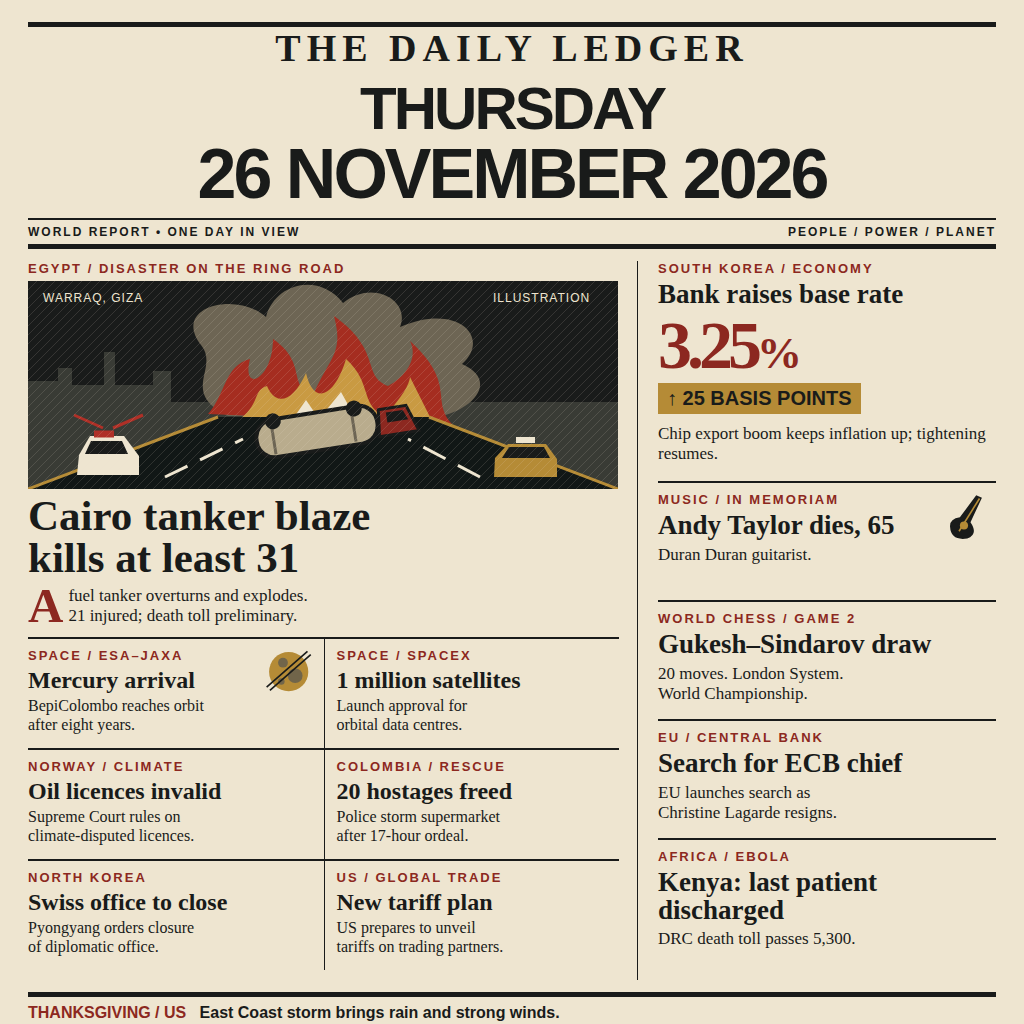
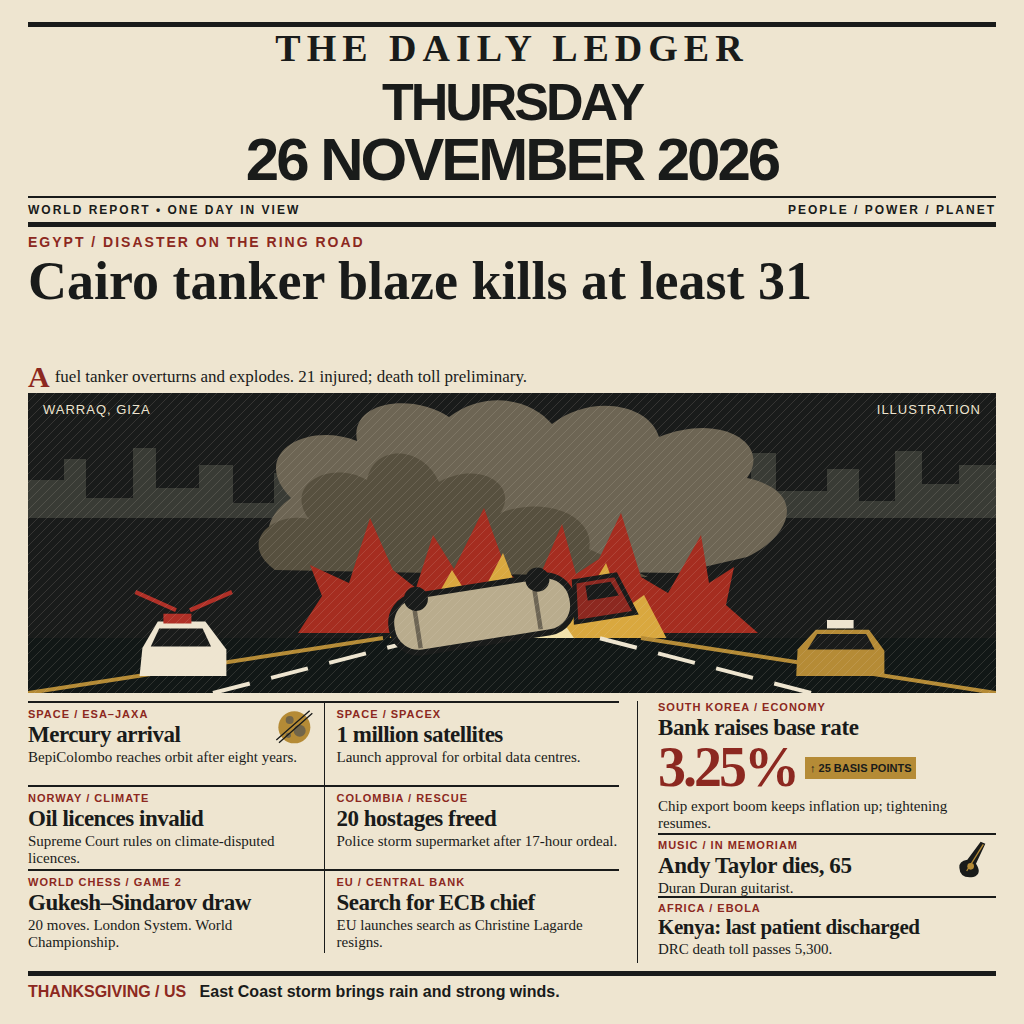
Optimize for blind pairwise judging: full-width hero illustration (968x300, layered smoke/flames/bright core), 54px headline, larger tile type, fix right-column overflow, correct README rendering notes

diff --git a/news.html b/news.html
@@ -1,39 +1,78 @@
 <!doctype html>
 <html lang="en"><meta charset="utf-8"><title>The Daily Ledger — 26 November 2026</title>
 <style>
-*{box-sizing:border-box}body{margin:0;background:#eee5d0;color:#191b1a;font-family:Georgia,'Times New Roman',serif} .page{width:1024px;height:1024px;padding:22px 28px 16px;overflow:hidden}header{text-align:center;border-top:5px solid #191b1a}.mast{font-size:38px;font-weight:900;letter-spacing:6px;line-height:1.15} .date{font-family:Impact,'Arial Narrow',sans-serif;font-weight:900;font-size:60px;line-height:1.02;letter-spacing:-3px;margin:7px 0 8px}.date span{display:block;font-size:70px}.edition{border-top:2px solid;border-bottom:5px solid;display:flex;justify-content:space-between;padding:5px 0;font: bold 12px Arial;letter-spacing:2px}.columns{display:grid;grid-template-columns:610px 338px;gap:20px;margin-top:12px;height:719px}.left{border-right:1px solid;padding-right:18px}.kicker{font:bold 13px Arial;letter-spacing:2px;color:#8c2820;margin-bottom:5px}h1{font-size:43px;line-height:.98;margin:6px 0}h2{font-size:26px;line-height:1.02;margin:4px 0}p{font:17px/1.18 Georgia;margin:5px 0}.leadpic{width:590px;height:208px;display:block;background:#191b1a}.leadtext:first-letter{float:left;font:bold 49px/.82 Georgia;padding-right:5px;color:#8c2820}.smallgrid{display:grid;grid-template-columns:1fr 1fr;margin-top:11px}.tile{height:111px;border-top:2px solid;padding:9px 9px 5px 0}.tile:nth-child(even){border-left:1px solid;padding-left:12px;padding-right:0}.tile h2{font-size:24px}.tile p{font-size:16px}.icon{float:right;width:51px;height:49px;margin-left:5px}.right article{border-bottom:2px solid;padding:9px 0;height:119px}.right article:first-child{height:222px;padding-top:0}.right article:last-child{border:0;height:130px}.rate{font:bold 68px/.96 Georgia;color:#8c2820;letter-spacing:-5px}.rate small{font-size:45px}.delta{display:inline-block;background:#b58b36;padding:4px 9px;font:bold 20px Arial;margin:5px 0}.right h2{font-size:27px}.right p{font-size:17px}.footer{border-top:5px solid;margin-top:12px;padding-top:7px;font:bold 16px Arial;white-space:nowrap}.footer b{color:#8c2820}.label{font:12px Arial;letter-spacing:1px;fill:#eee5d0}
+*{box-sizing:border-box}
+body{margin:0;background:#eee5d0;color:#191b1a;font-family:Georgia,'Times New Roman',serif}
+.page{width:1024px;height:1024px;padding:22px 28px 16px;overflow:hidden;display:flex;flex-direction:column;gap:8px}
+header{text-align:center;border-top:5px solid #191b1a;flex:none}
+.mast{font-size:38px;font-weight:900;letter-spacing:6px;line-height:1.15}
+.date{font-family:Impact,'Arial Narrow',sans-serif;font-weight:900;font-size:52px;line-height:1.02;letter-spacing:-3px;margin:5px 0 6px}
+.date span{display:block;font-size:60px}
+.edition{border-top:2px solid;border-bottom:5px solid;display:flex;justify-content:space-between;padding:5px 0;font: bold 12px Arial;letter-spacing:2px}
+.hero{flex:none;display:grid;grid-template-rows:16px 106px 24px 300px;gap:4px}
+.kicker{font:bold 11px/1.1 Arial;letter-spacing:1px;color:#8c2820;margin:0 0 3px}
+.hero .kicker{font-size:14px;letter-spacing:2px;margin:0}
+h1{font-size:54px;line-height:.98;margin:0;max-width:850px}
+h2{font-size:23px;line-height:1.02;margin:2px 0}
+p{font:15px/1.12 Georgia;margin:3px 0 0}
+.leadtext{font-size:17px;line-height:24px;margin:0}
+.leadtext:first-letter{float:left;font:bold 30px/.8 Georgia;padding-right:5px;color:#8c2820}
+.leadpic{width:968px;height:300px;display:block;background:#191b1a}
+.columns{display:grid;grid-template-columns:610px 338px;gap:20px;height:262px;flex:none}
+.left{border-right:1px solid;padding-right:18px}
+.smallgrid{display:grid;grid-template-columns:1fr 1fr;grid-template-rows:repeat(3,84px)}
+.tile{height:84px;border-top:2px solid;padding:5px 9px 3px 0}
+.tile:nth-child(even){border-left:1px solid;padding-left:12px;padding-right:0}
+.tile h2{font-size:23px;letter-spacing:-.5px}
+.tile p{font-size:15px}
+.icon{float:right;width:40px;height:40px;margin-left:5px}
+.right article{border-bottom:2px solid;padding:4px 0;height:63px}
+.right article:first-child{height:134px;padding-top:0}
+.right article:last-child{border:0;height:65px}
+.rate{display:inline-block;vertical-align:middle;font:bold 56px/.96 Georgia;color:#8c2820;letter-spacing:-3px}
+.delta{display:inline-block;vertical-align:middle;background:#b58b36;padding:5px;font:bold 11px Arial;margin-left:8px}
+.right h2{font-size:23px;letter-spacing:-.4px}
+.right article:last-child h2{font-size:21px}
+.right p{font-size:15px}
+.footer{border-top:5px solid;padding-top:7px;font:bold 16px Arial;white-space:nowrap;flex:none}
+.footer b{color:#8c2820}
+.label{font:13px Arial;letter-spacing:1px;fill:#eee5d0}
 </style>
 <div class="page">
 <header><div class="mast">THE DAILY LEDGER</div><div class="date">THURSDAY<span>26 NOVEMBER 2026</span></div><div class="edition"><span>WORLD REPORT • ONE DAY IN VIEW</span><span>PEOPLE / POWER / PLANET</span></div></header>
-<div class="columns"><main class="left">
+<main class="hero">
 <div class="kicker">EGYPT / DISASTER ON THE RING ROAD</div>
-<svg class="leadpic" viewBox="0 0 590 208" xmlns="http://www.w3.org/2000/svg" aria-label="Original drawing of a burning overturned tanker on a night highway">
+<h1>Cairo tanker blaze kills at least 31</h1><p class="leadtext">A fuel tanker overturns and explodes. 21 injured; death toll preliminary.</p>
+<svg class="leadpic" viewBox="0 0 968 300" xmlns="http://www.w3.org/2000/svg" aria-label="Original drawing of a burning overturned tanker on a night highway">
 <defs><pattern id="hatch" width="9" height="9" patternUnits="userSpaceOnUse"><path d="M0 9L9 0" stroke="#eee5d0" stroke-width=".6" opacity=".22"/></pattern></defs>
-<path d="M0 125V100H30V87H44V104H76V71H87V104H125V90H143V121H590V208H0Z" fill="#393b35"/>
-<path d="M200 135C151 111 192 87 173 64C143 25 209 10 238 36C247 2 291 -9 315 22C344 -2 383 19 372 46C429 21 464 56 434 83C473 100 443 133 402 137Z" fill="#6d6554"/>
-<path d="M180 133C198 113 196 85 222 78C213 113 245 99 245 58C281 83 258 107 286 112C302 76 316 72 306 35C355 70 333 94 360 105C380 94 390 76 382 60C429 103 402 119 424 143Z" fill="#a52d20"/>
-<path d="M207 141C233 126 224 109 239 105C248 126 265 121 278 92C286 126 307 115 318 78C345 103 331 121 356 136C375 115 381 104 382 96L406 144Z" fill="#c99a42"/>
-<path d="M260 145L278 119L291 138L313 111L333 147Z" fill="#eee5d0"/>
-<path d="M0 208L190 136H401L590 208Z" fill="#111716"/><path d="M0 208L190 136M590 208L401 136" stroke="#b58b36" stroke-width="3"/><path d="M137 196L215 158M452 196L380 158" stroke="#eee5d0" stroke-width="3" stroke-dasharray="25 14"/>
-<g transform="rotate(-9 299 150)"><rect x="228" y="130" width="122" height="38" rx="18" fill="#b9ac8d" stroke="#191b1a" stroke-width="4"/><path d="M245 132V165M326 132V165" stroke="#6d6554" stroke-width="3"/><path d="M353 137H381L390 164H350Z" fill="#8c2820" stroke="#191b1a" stroke-width="3"/><path d="M360 141H377L381 151H360Z" fill="#191b1a"/><circle cx="247" cy="132" r="8" fill="#191b1a"/><circle cx="329" cy="132" r="8" fill="#191b1a"/></g>
-<path d="M51 174L62 155H96L111 175V194H49Z" fill="#eee5d0"/><path d="M63 160H94L100 173H57Z" fill="#191b1a"/><path d="M66 153H86" stroke="#af3027" stroke-width="7"/><path d="M75 147L46 134M85 147L115 134" stroke="#af3027" stroke-width="3"/><path d="M467 177L480 163H518L529 178V196H466Z" fill="#b58b36"/><path d="M481 166H516L522 177H474Z" fill="#191b1a"/><path d="M488 159H507" stroke="#eee5d0" stroke-width="6"/>
-<rect width="590" height="208" fill="url(#hatch)"/><text x="15" y="21" class="label">WARRAQ, GIZA</text><text x="465" y="21" class="label">ILLUSTRATION</text>
+<path d="M0 125V87H36V66H58V105H105V55H128V95H171V72H205V110H246V80H281V125H693V89H723V60H748V98H799V76H831V108H867V58H894V91H931V72H968V125Z" fill="#393b35"/>
+<path d="M270 175C223 153 240 121 263 105C220 61 278 28 329 48C321 7 386 0 421 24C457 -3 502 5 524 31C563 0 622 11 631 44C693 19 744 51 719 85C780 98 764 143 719 164L650 180Z" fill="#6d6554"/>
+<path d="M247 177C209 150 244 118 281 126C255 92 302 66 339 87C346 51 394 52 411 89C455 66 491 95 472 120C521 101 568 126 561 156L620 184Z" fill="#57503f"/>
+<path d="M270 240L294 203L282 172L321 190L342 125L365 177L388 195L405 142L426 176L456 115L479 179L505 199L534 131L548 181L571 166L593 120L613 184L640 200L673 142L681 190L706 174L698 212L730 240Z" fill="#a52d20"/>
+<path d="M360 248L381 208L399 221L424 177L447 214L475 160L497 217L522 187L548 220L578 170L595 217L616 202L640 248Z" fill="#d9a83f"/>
+<path d="M437 248L454 218L471 231L490 200L508 231L526 216L548 248Z" fill="#f3e3ac"/>
+<path d="M0 245H968V300H0Z" fill="#111716"/>
+<path d="M0 300L355 245M968 300L613 245" stroke="#b58b36" stroke-width="4"/>
+<path d="M185 300L397 245M783 300L571 245" stroke="#eee5d0" stroke-width="4" stroke-dasharray="38 22"/>
+<g transform="translate(484 218) rotate(-9) scale(1.5) translate(-309 -150)"><rect x="228" y="130" width="122" height="38" rx="18" fill="#b9ac8d" stroke="#191b1a" stroke-width="4"/><path d="M245 132V165M326 132V165" stroke="#6d6554" stroke-width="3"/><path d="M353 137H381L390 164H350Z" fill="#8c2820" stroke="#191b1a" stroke-width="3"/><path d="M360 141H377L381 151H360Z" fill="#191b1a"/><circle cx="247" cy="132" r="8" fill="#191b1a"/><circle cx="329" cy="132" r="8" fill="#191b1a"/></g>
+<g transform="translate(155 283) scale(1.4) translate(-80 -194)"><path d="M51 174L62 155H96L111 175V194H49Z" fill="#eee5d0"/><path d="M63 160H94L100 173H57Z" fill="#191b1a"/><path d="M66 153H86" stroke="#af3027" stroke-width="7"/><path d="M75 147L46 134M85 147L115 134" stroke="#af3027" stroke-width="3"/></g><g transform="translate(813 283) scale(1.4) translate(-498 -196)"><path d="M467 177L480 163H518L529 178V196H466Z" fill="#b58b36"/><path d="M481 166H516L522 177H474Z" fill="#191b1a"/><path d="M488 159H507" stroke="#eee5d0" stroke-width="6"/>
+</g>
+<rect width="968" height="300" fill="url(#hatch)"/><text x="15" y="21" class="label">WARRAQ, GIZA</text><text x="953" y="21" text-anchor="end" class="label">ILLUSTRATION</text>
 </svg>
-<h1>Cairo tanker blaze<br>kills at least 31</h1><p class="leadtext">A fuel tanker overturns and explodes.<br>21 injured; death toll preliminary.</p>
+</main>
+<div class="columns"><section class="left">
 <div class="smallgrid">
-<article class="tile"><svg class="icon" viewBox="0 0 60 60"><circle cx="29" cy="29" r="24" fill="#b58b36"/><g fill="#71654a"><circle cx="22" cy="18" r="6"/><circle cx="37" cy="34" r="9"/><circle cx="20" cy="41" r="4"/></g><path d="M2 48L52 4M6 52L56 8" stroke="#191b1a" stroke-width="2"/></svg><div class="kicker">SPACE / ESA–JAXA</div><h2>Mercury arrival</h2><p>BepiColombo reaches orbit<br>after eight years.</p></article>
-<article class="tile"><div class="kicker">SPACE / SPACEX</div><h2>1 million satellites</h2><p>Launch approval for<br>orbital data centres.</p></article>
-<article class="tile"><div class="kicker">NORWAY / CLIMATE</div><h2>Oil licences invalid</h2><p>Supreme Court rules on<br>climate-disputed licences.</p></article>
-<article class="tile"><div class="kicker">COLOMBIA / RESCUE</div><h2>20 hostages freed</h2><p>Police storm supermarket<br>after 17-hour ordeal.</p></article>
-<article class="tile"><div class="kicker">NORTH KOREA</div><h2>Swiss office to close</h2><p>Pyongyang orders closure<br>of diplomatic office.</p></article>
-<article class="tile"><div class="kicker">US / GLOBAL TRADE</div><h2>New tariff plan</h2><p>US prepares to unveil<br>tariffs on trading partners.</p></article>
-</div></main>
+<article class="tile"><svg class="icon" viewBox="0 0 60 60"><circle cx="29" cy="29" r="24" fill="#b58b36"/><g fill="#71654a"><circle cx="22" cy="18" r="6"/><circle cx="37" cy="34" r="9"/><circle cx="20" cy="41" r="4"/></g><path d="M2 48L52 4M6 52L56 8" stroke="#191b1a" stroke-width="2"/></svg><div class="kicker">SPACE / ESA–JAXA</div><h2>Mercury arrival</h2><p>BepiColombo reaches orbit after eight years.</p></article>
+<article class="tile"><div class="kicker">SPACE / SPACEX</div><h2>1 million satellites</h2><p>Launch approval for orbital data centres.</p></article>
+<article class="tile"><div class="kicker">NORWAY / CLIMATE</div><h2>Oil licences invalid</h2><p>Supreme Court rules on climate-disputed licences.</p></article>
+<article class="tile"><div class="kicker">COLOMBIA / RESCUE</div><h2>20 hostages freed</h2><p>Police storm supermarket after 17-hour ordeal.</p></article>
+<article class="tile"><div class="kicker">WORLD CHESS / GAME 2</div><h2>Gukesh–Sindarov draw</h2><p>20 moves. London System. World Championship.</p></article>
+<article class="tile"><div class="kicker">EU / CENTRAL BANK</div><h2>Search for ECB chief</h2><p>EU launches search as Christine Lagarde resigns.</p></article>
+</div></section>
 <aside class="right">
-<article><div class="kicker">SOUTH KOREA / ECONOMY</div><h2>Bank raises base rate</h2><div class="rate">3.25<small>%</small></div><div class="delta">↑ 25 BASIS POINTS</div><p>Chip export boom keeps inflation up; tightening resumes.</p></article>
+<article><div class="kicker">SOUTH KOREA / ECONOMY</div><h2>Bank raises base rate</h2><div class="rate">3.25%</div><div class="delta">↑ 25 BASIS POINTS</div><p>Chip export boom keeps inflation up; tightening resumes.</p></article>
 <article><svg class="icon" viewBox="0 0 60 60"><path d="M37 4L44 7L30 37Q40 52 26 57Q6 60 5 43Q4 33 17 31Z" fill="#191b1a"/><path d="M16 48L41 8" stroke="#b58b36" stroke-width="2"/><circle cx="22" cy="41" r="5" fill="#b58b36"/></svg><div class="kicker">MUSIC / IN MEMORIAM</div><h2>Andy Taylor dies, 65</h2><p>Duran Duran guitarist.</p></article>
-<article><div class="kicker">WORLD CHESS / GAME 2</div><h2>Gukesh–Sindarov draw</h2><p>20 moves. London System.<br>World Championship.</p></article>
-<article><div class="kicker">EU / CENTRAL BANK</div><h2>Search for ECB chief</h2><p>EU launches search as<br>Christine Lagarde resigns.</p></article>
-<article><div class="kicker">AFRICA / EBOLA</div><h2>Kenya: last patient<br>discharged</h2><p>DRC death toll passes 5,300.</p></article>
+<article><div class="kicker">AFRICA / EBOLA</div><h2>Kenya: last patient discharged</h2><p>DRC death toll passes 5,300.</p></article>
 </aside></div>
 <div class="footer"><b>THANKSGIVING / US</b> &nbsp; East Coast storm brings rain and strong winds.</div>
 </div></html>

diff --git a/README.md b/README.md
@@ -2,7 +2,7 @@
 [![rank](https://make.fun/badge/news-image-20261126/chuck147147/news-image-20261126/rank.svg)](https://make.fun/bounty/news-image-20261126/leaderboard?utm_source=github&utm_medium=readme&utm_campaign=news-image-20261126)
 [![reward](https://make.fun/badge/news-image-20261126/chuck147147/news-image-20261126/reward.svg)](https://make.fun/bounty/news-image-20261126?utm_source=github&utm_medium=readme&utm_campaign=news-image-20261126)
 
-An original 1024×1024 broadsheet for Thursday 26 November 2026. Cream newsprint, black ink, gold and deep red frame twelve world headlines, led by a hand-drawn SVG illustration of the Cairo tanker blaze. All artwork and layout were authored for this entry; no external assets are used.
+An original 1024×1024 broadsheet for Thursday 26 November 2026. Cream newsprint, black ink, gold and deep red frame ten world headlines, led by a hand-drawn SVG illustration of the Cairo tanker blaze. All artwork and layout were authored for this entry; no external assets are used.
 
 Run with Node 22:
 
@@ -12,6 +12,4 @@ mkdir -p out && MAKEFUN_OUTPUT_DIR=out node main.ts
 
 The program copies the rendered PNG unchanged. It uses only Node's filesystem and path standard libraries and needs no network access. `news.html` is the editable artwork source; `entry.png` is its Chromium rendering. Headline provenance is recorded in `SOURCES.md`.
 
-Rendering: `bash render.sh` uses headless Chromium to create `entry.png`, validates its dimensions and size with Pillow, and checks two program runs for identical bytes. Set `CHROMIUM_BIN` to override the browser path.
-
-Current session limitation: the environment blocked Chromium startup with `shutdown: Operation not permitted` at `sandbox_host_linux.cc:41`. Consequently `entry.png` has not been produced, visual inspection and copy checks have not run, and this entry is not yet submission-ready. The installed Node version is 24.22.1; Node 22 was not available for runtime validation.
+Rendering: `node render.mjs` renders `news.html` to `entry.png` with Playwright/Chromium and validates the 1024×1024 dimensions and 1 MiB size limit. Running `node main.ts` twice produces identical bytes.
